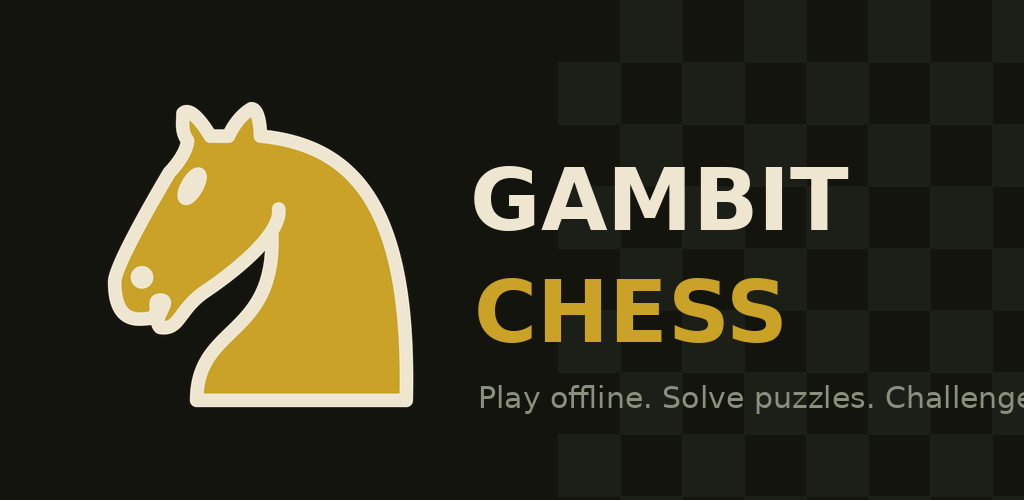
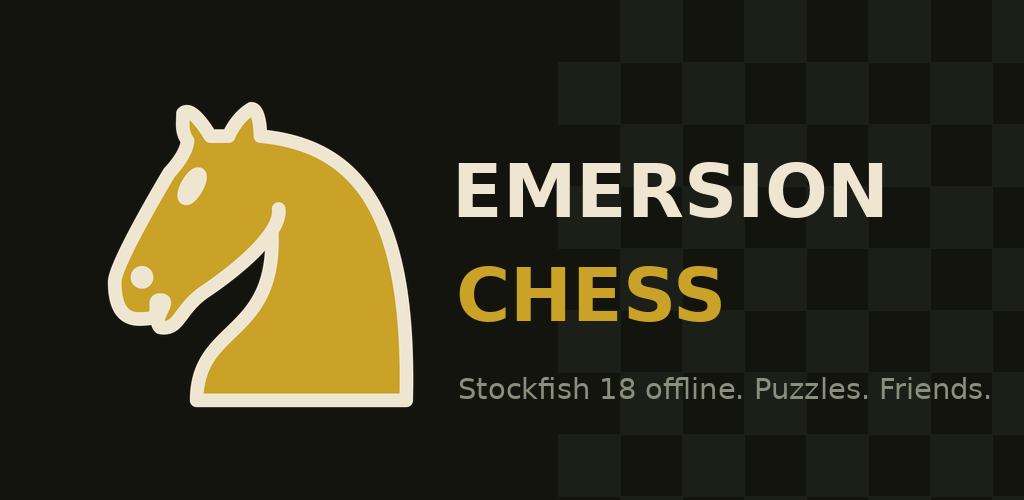
REBRAND: Emersion Chess (title 'Emersion Chess: Stockfish'); appId leaf aligned to io.github.emersionplay.chess while unpublished; wordmark, manifest label, 15 test asserts, docs, listing rewrite, feature graphic. Internal tokens + signing-cert CN retained by design (AUDIT)

Changed region(s): [[0.4375, 0.3, 0.875, 0.48], [0.4375, 0.51, 0.7812, 0.69], [0.4375, 0.75, 1.0, 0.84]]

diff --git a/app/src/androidTest/java/com/chessapp/E2eScenariosTest.kt b/app/src/androidTest/java/com/chessapp/E2eScenariosTest.kt
@@ -201,7 +201,7 @@ class E2eScenariosTest {
         move(4, 1, 4, 3, "1. e4")
         waitAiReplied()                                  // ensure autosave has 2 plies
         rule.onNodeWithText("\u2039 Home").performClick()
-        waitForText("GAMBIT")
+        waitForText("EMERSION")
         rule.onNodeWithText("Saved Games").performClick()
         rule.waitUntil(15_000) {
             rule.onAllNodesWithTag("savedRow").fetchSemanticsNodes().isNotEmpty()
@@ -215,13 +215,13 @@ class E2eScenariosTest {
     fun allDifficultiesSelectable_andStartGame() {
         // Chips SELECT a difficulty (persisted); the primary card starts the game.
         for (d in listOf("Easy", "Medium", "Hard", "Expert")) {
-            waitForText("GAMBIT")
+            waitForText("EMERSION")
             rule.onNodeWithText(d).performClick()
             rule.onNodeWithText("Play vs Computer").performClick()
             waitForText("White to move")
             rule.onNodeWithText("\u2039 Home").performClick()
         }
-        waitForText("GAMBIT")
+        waitForText("EMERSION")
     }
 
     @Test
@@ -235,6 +235,6 @@ class E2eScenariosTest {
             rule.onAllNodesWithText(label, substring = true).onFirst().assertExists()
         }
         rule.onNodeWithText("\u2039 Home").performClick()
-        waitForText("GAMBIT")
+        waitForText("EMERSION")
     }
 }

diff --git a/app/src/androidTest/java/com/chessapp/GambitUiTest.kt b/app/src/androidTest/java/com/chessapp/GambitUiTest.kt
@@ -36,8 +36,8 @@ class GambitUiTest {
 
     @Test
     fun homeScreenRenders() {
-        waitForText("GAMBIT")
-        rule.onNodeWithText("GAMBIT").assertIsDisplayed()
+        waitForText("EMERSION")
+        rule.onNodeWithText("EMERSION").assertIsDisplayed()
         rule.onNodeWithText("Play vs Computer").assertIsDisplayed()
         rule.onNodeWithText("Pass & Play").assertIsDisplayed()
         rule.onNodeWithText("Settings").assertIsDisplayed()
@@ -80,8 +80,8 @@ class GambitUiTest {
         rule.onNodeWithText("Play vs Computer").performClick()
         waitForText("White to move")
         rule.onNodeWithText("\u2039 Home").performClick()
-        waitForText("GAMBIT")
-        rule.onNodeWithText("GAMBIT").assertIsDisplayed()
+        waitForText("EMERSION")
+        rule.onNodeWithText("EMERSION").assertIsDisplayed()
     }
 
     @Test
@@ -90,6 +90,6 @@ class GambitUiTest {
         rule.onNodeWithText("Settings").performClick()
         waitForText("Sound effects")
         rule.onNodeWithText("\u2039 Home").performClick()
-        waitForText("GAMBIT")
+        waitForText("EMERSION")
     }
 }

diff --git a/app/src/androidTest/java/com/chessapp/E2eRound4Test.kt b/app/src/androidTest/java/com/chessapp/E2eRound4Test.kt
@@ -131,7 +131,7 @@ class E2eRound4Test {
         rule.activityRule.scenario.recreate()
         // Current design: nav state is in-memory, so recreation lands on Home —
         // the autosaved game must be one tap away.
-        waitForText("GAMBIT")
+        waitForText("EMERSION")
         rule.onNodeWithText("Saved Games").performClick()
         rule.waitUntil(15_000) {
             rule.onAllNodesWithTag("savedRow").fetchSemanticsNodes().isNotEmpty()
@@ -161,7 +161,7 @@ class E2eRound4Test {
             waitForText("White to move")
             rule.onNodeWithText("\u2039 Home").performClick()
         }
-        waitForText("GAMBIT")
+        waitForText("EMERSION")
         rule.onNodeWithText("Play as").assertIsDisplayed()
     }
 }

diff --git a/app/src/main/java/com/chessapp/ui/settings/SettingsScreen.kt b/app/src/main/java/com/chessapp/ui/settings/SettingsScreen.kt
@@ -103,7 +103,7 @@ fun SettingsScreen(repo: SettingsRepository, onBack: () -> Unit) {
 
         Section("About")
         Text(
-            "Gambit Chess v${com.chessapp.BuildConfig.VERSION_NAME}\nBuilt-in engine + optional Stockfish 18 (\u00A9 the Stockfish team, GPLv3).\nSource & licenses: github.com/emersionplay/gambit-chess",
+            "Emersion Chess v${com.chessapp.BuildConfig.VERSION_NAME}\nBuilt-in engine + optional Stockfish 18 (\u00A9 the Stockfish team, GPLv3).\nSource & licenses: github.com/emersionplay/emersion-chess",
             color = MUTED, fontSize = 12.sp, lineHeight = 18.sp,
             modifier = Modifier.padding(horizontal = 20.dp)
         )

diff --git a/app/src/androidTest/java/com/chessapp/SmokeTest.kt b/app/src/androidTest/java/com/chessapp/SmokeTest.kt
@@ -24,7 +24,7 @@ class SmokeTest {
 
     @Test
     fun homeScreenRendersBrand() {
-        rule.onNodeWithText("GAMBIT").assertIsDisplayed()
+        rule.onNodeWithText("EMERSION").assertIsDisplayed()
         rule.onNodeWithText("Play vs Computer").assertIsDisplayed()
     }
 
@@ -33,7 +33,7 @@ class SmokeTest {
         rule.onNodeWithText("Settings").performClick()
         rule.onNodeWithText("Sound effects").assertIsDisplayed()
         rule.onNodeWithText("\u2039 Home").performClick()
-        rule.onNodeWithText("GAMBIT").assertIsDisplayed()
+        rule.onNodeWithText("EMERSION").assertIsDisplayed()
     }
 
     @Test

diff --git a/app/src/main/java/com/chessapp/ui/home/HomeScreen.kt b/app/src/main/java/com/chessapp/ui/home/HomeScreen.kt
@@ -61,7 +61,7 @@ fun HomeScreen(
         Canvas(Modifier.size(72.dp)) {
             PieceRenderer.draw(this, PieceType.KNIGHT, Color.WHITE, Offset.Zero, size.minDimension)
         }
-        Text("GAMBIT", color = BONE, fontSize = 34.sp, fontWeight = FontWeight.Bold,
+        Text("EMERSION", color = BONE, fontSize = 34.sp, fontWeight = FontWeight.Bold,
             letterSpacing = 8.sp)
         Text("play. learn. repeat.", color = MUTED, fontSize = 13.sp, letterSpacing = 2.sp)
         Spacer(Modifier.height(20.dp))

diff --git a/app/src/androidTest/java/com/chessapp/E2eNewFeaturesTest.kt b/app/src/androidTest/java/com/chessapp/E2eNewFeaturesTest.kt
@@ -80,7 +80,7 @@ class E2eNewFeaturesTest {
         tapSquare(4, 1); tapSquare(4, 3)
         waitForText("1. e4", timeoutMs = 60_000, substring = true)
         rule.onNodeWithText("\u2039 Home").performClick()
-        waitForText("GAMBIT")
+        waitForText("EMERSION")
         rule.onNodeWithText("Saved Games").performClick()
         rule.waitUntil(15_000) {
             rule.onAllNodesWithTag("savedRow").fetchSemanticsNodes().isNotEmpty()

diff --git a/store/listing.md b/store/listing.md
@@ -1,41 +1,33 @@
-# Play Store listing kit
+# Play Store listing — Emersion Chess
 
 ## App name (30 chars max)
-Gambit Chess — Play & Learn
+Emersion Chess: Stockfish
 
 ## Short description (80 chars max)
-Stockfish 18 on your phone. Fully offline. 137 verified puzzles. No ads.
+Play offline vs Stockfish 18. 137 verified puzzles. Friends online. No ads.
 
 ## Full description
-Gambit Chess is a fast, elegant chess app that respects you: no ads, no
-account, no tracking — it even plays entirely offline.
+Emerge stronger. Emersion Chess puts the full-strength Stockfish 18 engine
+ON YOUR PHONE — analysis-grade opposition with no server, no account, no
+internet required (arm64 devices; others use the capable built-in engine).
 
-FEATURES
-• The full-strength Stockfish 18 engine runs ON YOUR PHONE — analysis-grade
-  opposition with no server, no account, no internet (arm64 devices; others
-  use the capable built-in engine)
-• Four difficulty tiers, Easy to Expert, mapped to engine skill so beatable
+An immersive, distraction-free board: hand-tuned wood themes, the classic
+piece set you know from the books, felt-thud move sounds and subtle haptics.
+
+• Four difficulty tiers, Easy to Expert, mapped to engine skill — beatable
   stays beatable
-• 137 tactics puzzles, every single one machine-verified — mate in 1 and
-  mate in 2, with hints and saved progress
-• Pass & Play on one phone, with chess clocks (Bullet to Rapid, Fischer
-  increments)
-• Online play with friends by room code — runs on your own free Firebase,
-  so your games belong to you
-• Full rules: castling, en passant, promotion, threefold repetition,
-  fifty-move rule, insufficient material
-• Undo/redo, saved games, PGN move list, board themes, legal-move hints,
-  sounds and haptics
-• Dark, distraction-free design
+• 137 puzzles mined and machine-verified by the engine itself: every
+  mate-in-1 mates, every mate-in-2 forces it against ALL defenses
+• Play a friend on one phone (Pass & Play) or by 6-letter room code online
+• Full clocks with increment, undo/redo, saved games, PGN move list
+• Long-press the icon for instant New Game / Puzzles shortcuts
+• No ads. No tracking. No account. Open source (GPLv3).
 
-PRIVACY
-No ads. No analytics. No data collection. See our privacy policy.
+Built for players who want a serious board in their pocket — on a plane,
+off the grid, or across the table.
 
-Stockfish is (c) the Stockfish developers, GPLv3; full source of this app is
-available at the repository linked below.
+## Website / source
+https://github.com/emersionplay/emersion-chess
 
-## Graphics needed
-- App icon: auto from bundle (adaptive, done)
-- Feature graphic 1024x500: store/feature_graphic.png (in repo)
-- Phone screenshots (min 2): capture from your device — suggested: Home,
-  mid-game with clocks, Puzzles solved moment, Settings themes.
+## Privacy policy
+(host PRIVACY.md — repo URL once public)

diff --git a/AUDIT.md b/AUDIT.md
@@ -635,3 +635,16 @@ Renderer daemon-crash fixed via constant-pool string geometry. E2E fallout of
 the label change: my sweep grep had been truncated with head -4, so SmokeTest
 and Round4 still tapped the removed "Back" — completed untruncated; lesson
 logged (never head-limit a sweep you act on).
+
+## REBRAND (pre-launch, owner-approved): Gambit Chess -> Emersion Chess
+Driver: "Gambit" became contested in-category (live "Gambit: Chess Club" on
+Play with near-identical pitch; Chess.com's new "Gambit" using Play-and-Learn
+phrasing; gambit.ai). ASO: navigational capture ~100% vs leaked; title
+"Emersion Chess: Stockfish" (25c) spends the freed chars on the highest-intent
+pro keyword; exact-compound verified collision-free (only Steam's dormant
+"Immersion Chess" VR title, absent from Play — fuzzy search bridges the
+spelling both ways). appId leaf aligned while still free:
+io.github.emersionplay.chess. Retained internal tokens by design: Theme.Gambit,
+GambitUiTest, GAMBIT_* secret names, gambit-* CI artifact names, and the
+existing signing cert's CN=Gambit Chess (immutable without a new key; invisible
+to users). Repo transfer target: emersionplay/emersion-chess.

diff --git a/SERVER_SETUP.md b/SERVER_SETUP.md
@@ -1,6 +1,6 @@
 # Online play — 5-minute free setup
 
-Gambit's online mode runs on YOUR free Firebase project (Spark tier, no card).
+Emersion's online mode runs on YOUR free Firebase project (Spark tier, no card).
 
 1. Go to console.firebase.google.com → **Add project** (any name, Analytics off).
 2. **Build → Authentication → Get started → Anonymous → Enable.**

diff --git a/PRIVACY.md b/PRIVACY.md
@@ -1,6 +1,6 @@
-# Gambit Chess — Privacy Policy
+# Emersion Chess — Privacy Policy
 
-Gambit Chess is built to work offline and to collect nothing.
+Emersion Chess is built to work offline and to collect nothing.
 
 - No ads, no analytics, no trackers, no third-party SDKs phoning home.
 - Games, puzzles progress, and settings are stored only on your device.

diff --git a/RELEASE.md b/RELEASE.md
@@ -1,4 +1,4 @@
-# Releasing Gambit Chess to Google Play
+# Releasing Emersion Chess to Google Play
 
 ## One-time: create your signing key (KEEP IT FOREVER)
 On any machine with Java:
